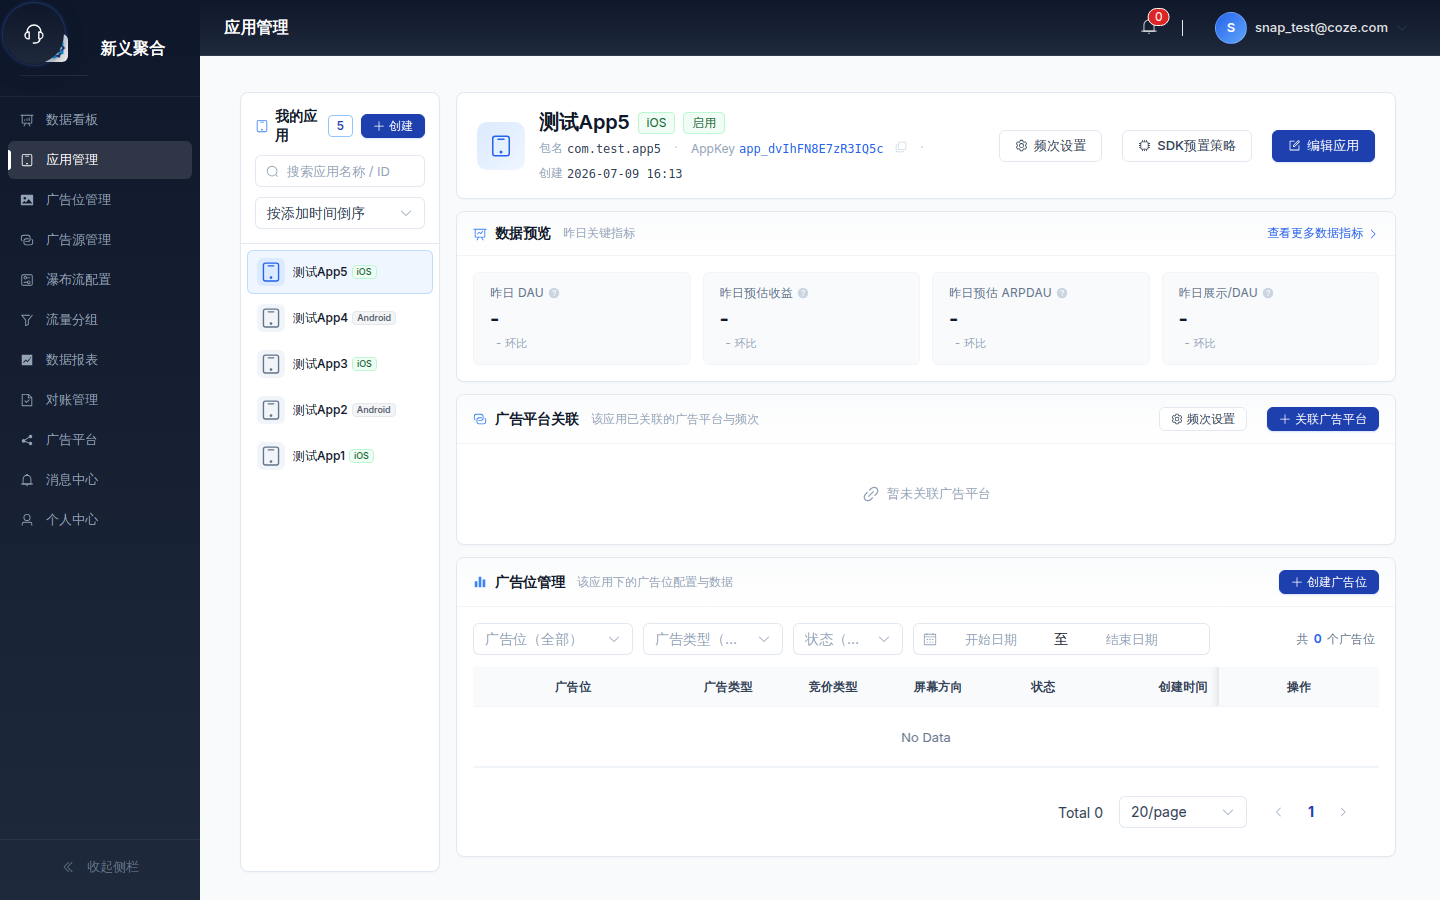
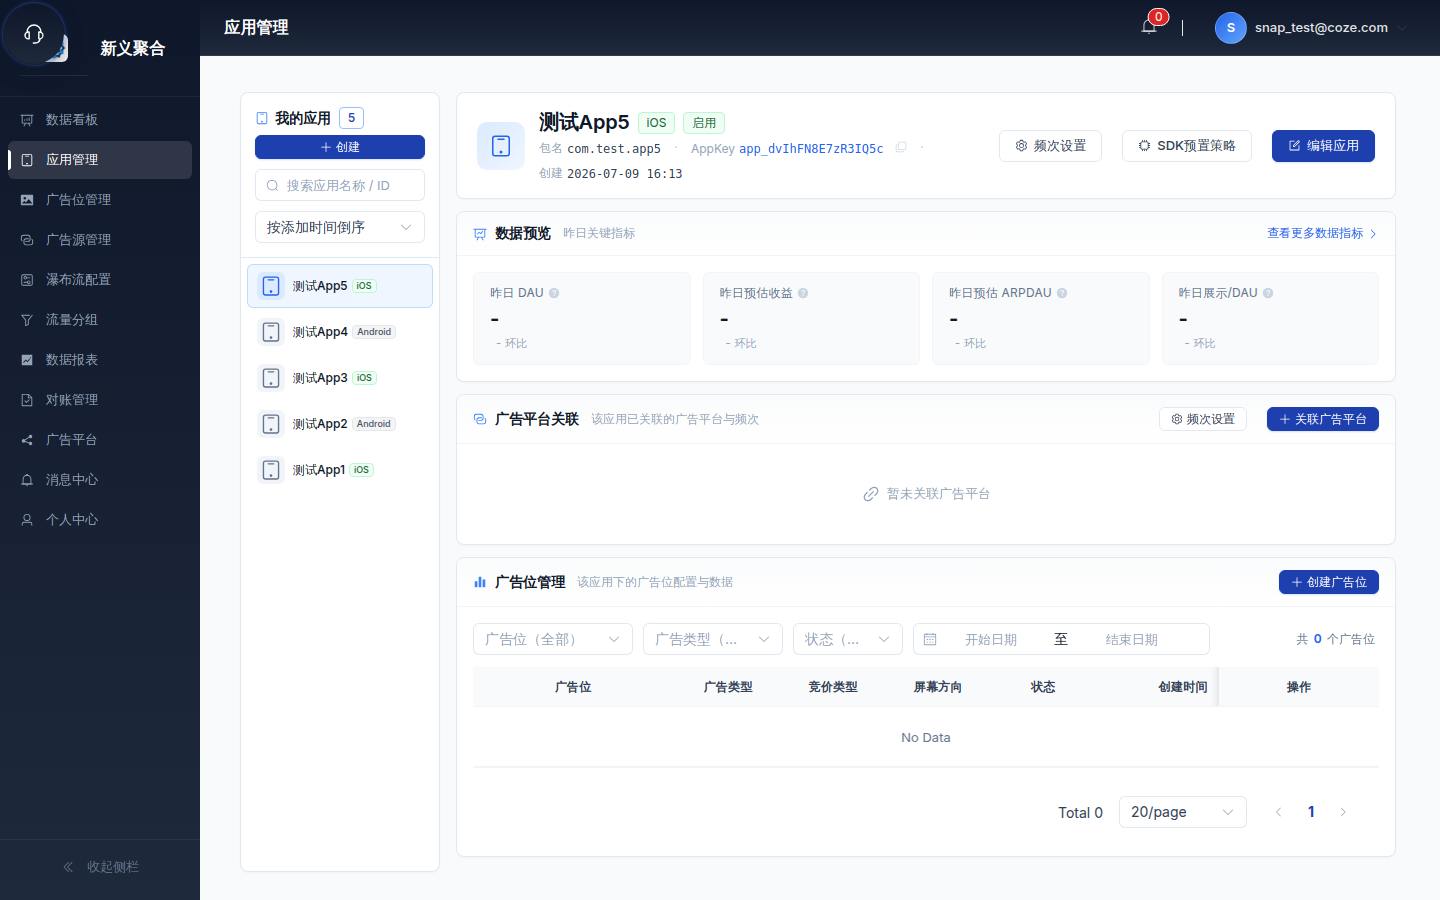
feat: 保存文件变更
Coze-Commit-Type: user
Coze-User-ID: 3335283175079384
Coze-Conversation-ID: 9828427

Changed region(s): [[0.1562, 0.1244, 0.3125, 0.5289]]

diff --git a/src/views/app/Index.vue b/src/views/app/Index.vue
@@ -9,7 +9,7 @@
             <span>我的应用</span>
             <el-tag size="small" effect="plain" round class="app-master-count">{{ appList.length }}</el-tag>
           </h2>
-          <el-button type="primary" size="small" :icon="Plus" @click="openCreateApp">创建</el-button>
+          <el-button type="primary" size="small" :icon="Plus" class="app-master-create-btn" @click="openCreateApp">创建</el-button>
         </div>
         <el-input
           v-model="searchKeyword"

diff --git a/src/index.css b/src/index.css
@@ -5214,9 +5214,14 @@ html, body, #app {
 }
 .app-master-header-top {
   display: flex;
-  align-items: center;
-  justify-content: space-between;
-  gap: 8px;
+  flex-direction: column;
+  align-items: stretch;
+  gap: 6px;
+}
+.app-master-create-btn {
+  align-self: stretch;
+  width: 100%;
+  justify-content: center;
 }
 .app-master-title {
   display: flex;
